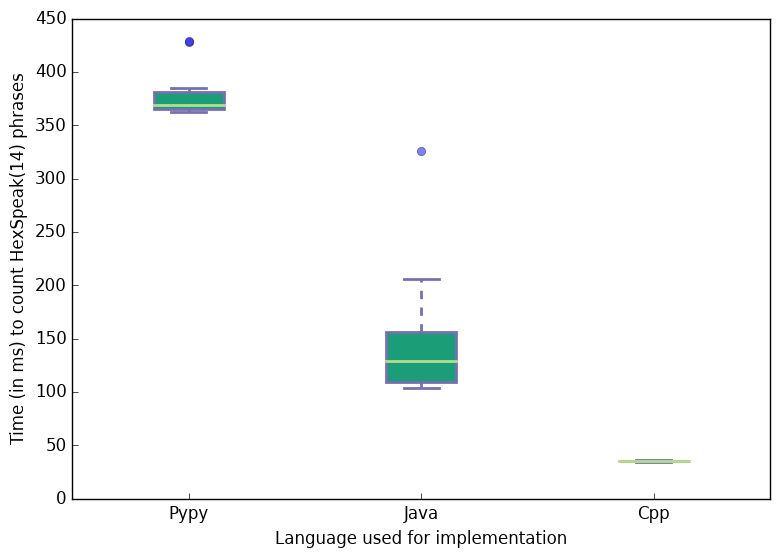
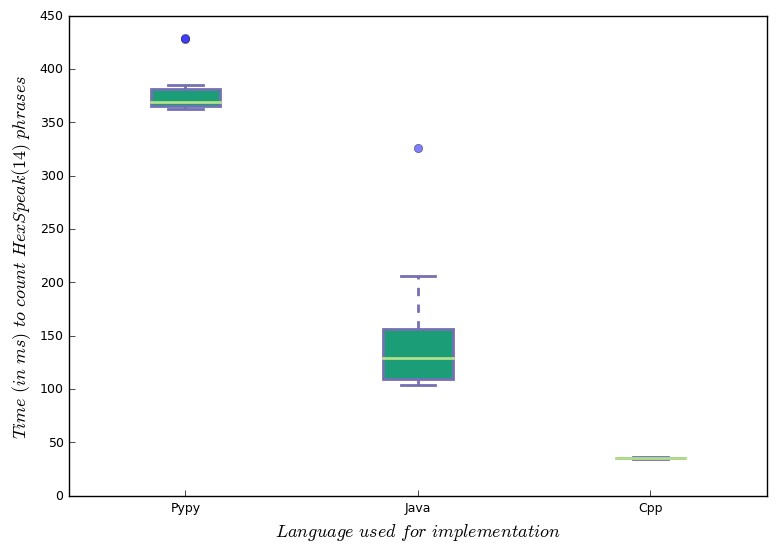
Tweak boxplot appearance

diff --git a/contrib/boxplot.py b/contrib/boxplot.py
@@ -1,18 +1,17 @@
 #!/usr/bin/env python2
 
-import numpy as np 
-import matplotlib as mpl 
-import os
+import numpy as np
+import matplotlib as mpl
 
 ## agg backend is used to create plot as a .png file
 mpl.use('agg')
 
-import matplotlib.pyplot as plt 
+import matplotlib.pyplot as plt
 
 ## Read data from benchmarking session
-languages = [
 #    "timings.python.txt",
 #    "timings.clojure.txt",
+languages = [
     "timings.pypy.txt",
     "timings.java.txt",
     "timings.cpp.txt",
@@ -25,7 +24,7 @@ data_to_plot_and_filenames = [
     )
     for lang in languages
 ]
-    
+
 # Create a figure instance
 fig = plt.figure(1, figsize=(9, 6))
 
@@ -39,9 +38,9 @@ bp = ax.boxplot([x[1] for x in data_to_plot_and_filenames], patch_artist=True)
 ## Change outline color, fill color and linewidth of the boxes
 for box in bp['boxes']:
     # change outline color
-    box.set( color='#7570b3', linewidth=2)
+    box.set(color='#7570b3', linewidth=2)
     # change fill color
-    box.set( facecolor = '#1b9e77' )
+    box.set(facecolor='#1b9e77')
 
 ## Change color and linewidth of the whiskers
 for whisker in bp['whiskers']:
@@ -60,15 +59,25 @@ for flier in bp['fliers']:
     flier.set(marker='o', color='#e7298a', alpha=0.5)
 
 ## Custom x-axis labels
-ax.set_xticklabels([x[0] for x in data_to_plot_and_filenames])
+ax.set_xticklabels([x[0] for x in data_to_plot_and_filenames],
+                   fontdict={'fontsize': 9})
+for tick in ax.yaxis.get_major_ticks():
+    # tick.label.set_fontsize('x-small')
+    tick.label.set_fontsize(9)
+    # tick.label.set_rotation('vertical')
 
 ## Remove top axes and right axes ticks
 ax.get_xaxis().tick_bottom()
 ax.get_yaxis().tick_left()
 
 # Set axis labels
-ax.set_xlabel("Language used for implementation")
-ax.set_ylabel("Time (in ms) to count HexSpeak(14) phrases")
+latexify = lambda x: "$" + x.replace(' ', '\\ ') + "$"
+ax.set_xlabel(
+    latexify("Language used for implementation"),
+    fontdict={'fontsize': 13})
+ax.set_ylabel(
+    latexify("Time (in ms) to count HexSpeak(14) phrases"),
+    fontdict={'fontsize': 13})
 
 # Save the figure
 fig.savefig('boxplot.png', bbox_inches='tight')
